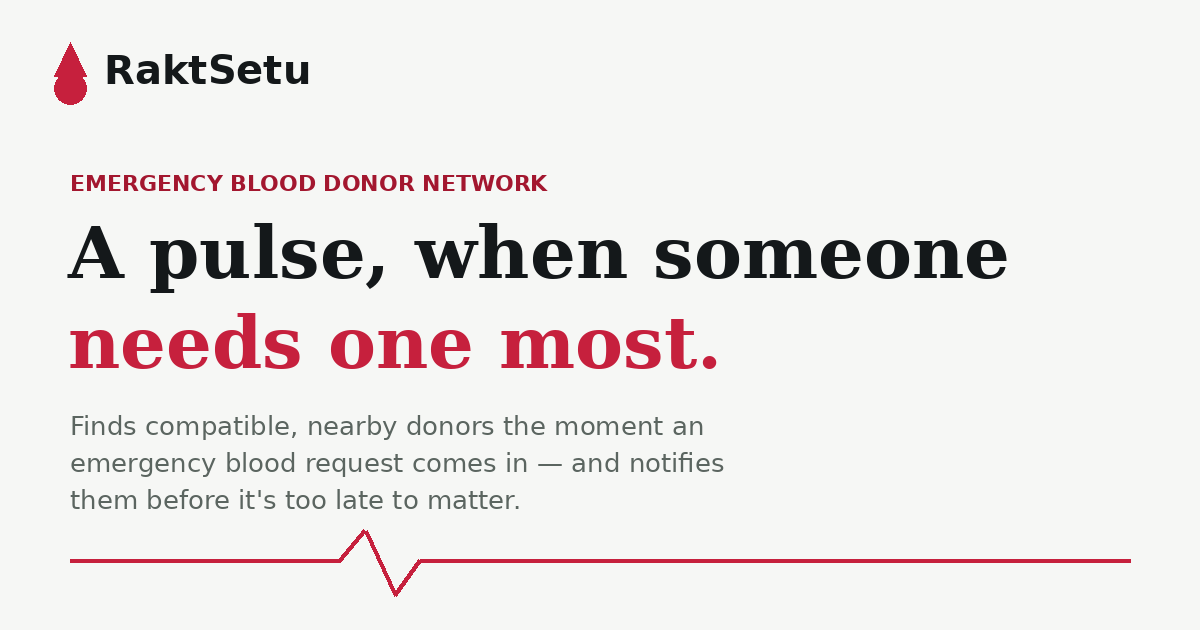
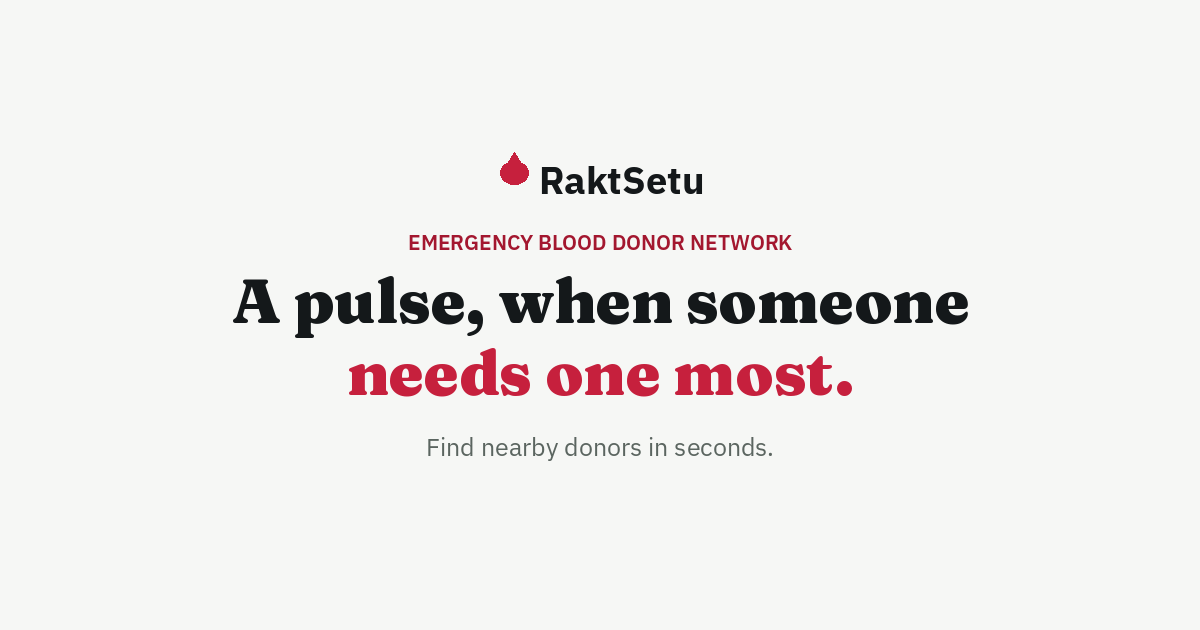
Add forgot/reset password flow and update OG image

diff --git a/raktsetu/backend/routes/auth.js b/raktsetu/backend/routes/auth.js
@@ -1,12 +1,15 @@
 import express from "express";
 import bcrypt from "bcryptjs";
 import jwt from "jsonwebtoken";
+import crypto from "crypto";
 import Donor from "../models/Donor.js";
 import { BLOOD_TYPES } from "../utils/compatibility.js";
+import { sendPasswordResetEmail } from "../utils/mailer.js";
 
 const router = express.Router();
 
 const DONATION_COOLDOWN_DAYS = 90;
+const RESET_TOKEN_TTL_MS = 60 * 60 * 1000; // 1 hour
 
 function signToken(donor) {
   return jwt.sign({ id: donor._id }, process.env.JWT_SECRET, { expiresIn: "30d" });
@@ -88,6 +91,81 @@ router.post("/login", async (req, res) => {
   } catch (err) {
     console.error(err);
     res.status(500).json({ message: "Login failed. Please try again." });
+  }
+});
+
+router.post("/forgot-password", async (req, res) => {
+  try {
+    const { email } = req.body;
+    if (!email) {
+      return res.status(400).json({ message: "Email is required." });
+    }
+
+    const donor = await Donor.findOne({ email: email.toLowerCase() });
+
+    // Always respond the same way whether or not the account exists —
+    // this stops the endpoint from being used to check which emails are
+    // registered donors.
+    const genericResponse = {
+      message: "If an account with that email exists, we've sent a password reset link.",
+    };
+
+    if (!donor) {
+      return res.json(genericResponse);
+    }
+
+    const rawToken = crypto.randomBytes(32).toString("hex");
+    const tokenHash = crypto.createHash("sha256").update(rawToken).digest("hex");
+
+    donor.resetPasswordTokenHash = tokenHash;
+    donor.resetPasswordExpires = new Date(Date.now() + RESET_TOKEN_TTL_MS);
+    await donor.save();
+
+    const clientUrl = process.env.CLIENT_URL || "http://localhost:5173";
+    const resetUrl = `${clientUrl}/reset-password?token=${rawToken}&email=${encodeURIComponent(donor.email)}`;
+
+    await sendPasswordResetEmail({ to: donor.email, donorName: donor.name, resetUrl });
+
+    res.json(genericResponse);
+  } catch (err) {
+    console.error(err);
+    res.status(500).json({ message: "Something went wrong. Please try again." });
+  }
+});
+
+router.post("/reset-password", async (req, res) => {
+  try {
+    const { email, token, password } = req.body;
+    if (!email || !token || !password) {
+      return res.status(400).json({ message: "Missing required fields." });
+    }
+    if (password.length < 6) {
+      return res.status(400).json({ message: "Password must be at least 6 characters." });
+    }
+
+    const donor = await Donor.findOne({ email: email.toLowerCase() });
+    if (!donor || !donor.resetPasswordTokenHash || !donor.resetPasswordExpires) {
+      return res.status(400).json({ message: "This reset link is invalid or has expired." });
+    }
+
+    if (donor.resetPasswordExpires < new Date()) {
+      return res.status(400).json({ message: "This reset link has expired. Please request a new one." });
+    }
+
+    const tokenHash = crypto.createHash("sha256").update(token).digest("hex");
+    if (tokenHash !== donor.resetPasswordTokenHash) {
+      return res.status(400).json({ message: "This reset link is invalid or has expired." });
+    }
+
+    donor.password = await bcrypt.hash(password, 10);
+    donor.resetPasswordTokenHash = null;
+    donor.resetPasswordExpires = null;
+    await donor.save();
+
+    res.json({ message: "Your password has been reset. You can now log in." });
+  } catch (err) {
+    console.error(err);
+    res.status(500).json({ message: "Something went wrong. Please try again." });
   }
 });
 

diff --git a/raktsetu/frontend/src/pages/ResetPassword.jsx b/raktsetu/frontend/src/pages/ResetPassword.jsx
@@ -1,0 +1,78 @@
+import { useState } from "react";
+import { Link, useNavigate, useSearchParams } from "react-router-dom";
+import client from "../api/client.js";
+
+export default function ResetPassword() {
+  const navigate = useNavigate();
+  const [searchParams] = useSearchParams();
+  const email = searchParams.get("email") || "";
+  const token = searchParams.get("token") || "";
+
+  const [password, setPassword] = useState("");
+  const [confirmPassword, setConfirmPassword] = useState("");
+  const [error, setError] = useState("");
+  const [submitting, setSubmitting] = useState(false);
+
+  async function handleSubmit(e) {
+    e.preventDefault();
+    setError("");
+
+    if (password !== confirmPassword) {
+      setError("Passwords don't match.");
+      return;
+    }
+
+    setSubmitting(true);
+    try {
+      await client.post("/auth/reset-password", { email, token, password });
+      navigate("/login");
+    } catch (err) {
+      setError(err.response?.data?.message || "Something went wrong. Please try again.");
+    } finally {
+      setSubmitting(false);
+    }
+  }
+
+  if (!email || !token) {
+    return (
+      <div className="max-w-md mx-auto px-5 py-20 text-center">
+        <p className="text-[var(--color-ink-muted)]">
+          This reset link looks incomplete. Please request a new one from the{" "}
+          <Link to="/forgot-password" className="text-[var(--color-crimson-600)] font-medium">
+            forgot password page
+          </Link>.
+        </p>
+      </div>
+    );
+  }
+
+  return (
+    <div className="max-w-md mx-auto px-5 py-20">
+      <span className="eyebrow">Almost there</span>
+      <h1 className="font-display text-3xl font-semibold mt-2 mb-8">Choose a new password</h1>
+
+      <form onSubmit={handleSubmit} className="card p-6 sm:p-8 space-y-5">
+        <div>
+          <label className="label" htmlFor="password">New password</label>
+          <input id="password" type="password" required minLength={6} className="input" value={password}
+            onChange={(e) => setPassword(e.target.value)} placeholder="At least 6 characters" />
+        </div>
+        <div>
+          <label className="label" htmlFor="confirmPassword">Confirm new password</label>
+          <input id="confirmPassword" type="password" required minLength={6} className="input" value={confirmPassword}
+            onChange={(e) => setConfirmPassword(e.target.value)} placeholder="Re-enter your new password" />
+        </div>
+
+        {error && (
+          <p className="text-sm text-[var(--color-crimson-600)] bg-[var(--color-crimson-50)] rounded-lg px-3 py-2">
+            {error}
+          </p>
+        )}
+
+        <button type="submit" disabled={submitting} className="btn btn-primary w-full disabled:opacity-60">
+          {submitting ? "Saving…" : "Save new password"}
+        </button>
+      </form>
+    </div>
+  );
+}

diff --git a/raktsetu/frontend/src/pages/ForgotPassword.jsx b/raktsetu/frontend/src/pages/ForgotPassword.jsx
@@ -1,0 +1,60 @@
+import { useState } from "react";
+import { Link } from "react-router-dom";
+import client from "../api/client.js";
+
+export default function ForgotPassword() {
+  const [email, setEmail] = useState("");
+  const [message, setMessage] = useState("");
+  const [error, setError] = useState("");
+  const [submitting, setSubmitting] = useState(false);
+
+  async function handleSubmit(e) {
+    e.preventDefault();
+    setError("");
+    setMessage("");
+    setSubmitting(true);
+    try {
+      const res = await client.post("/auth/forgot-password", { email });
+      setMessage(res.data.message);
+    } catch (err) {
+      setError(err.response?.data?.message || "Something went wrong. Please try again.");
+    } finally {
+      setSubmitting(false);
+    }
+  }
+
+  return (
+    <div className="max-w-md mx-auto px-5 py-20">
+      <span className="eyebrow">Locked out?</span>
+      <h1 className="font-display text-3xl font-semibold mt-2 mb-8">Reset your password</h1>
+
+      <form onSubmit={handleSubmit} className="card p-6 sm:p-8 space-y-5">
+        <div>
+          <label className="label" htmlFor="email">Email</label>
+          <input id="email" type="email" required className="input" value={email}
+            onChange={(e) => setEmail(e.target.value)} placeholder="you@example.com" />
+        </div>
+
+        {message && (
+          <p className="text-sm text-[var(--color-ink)] bg-[var(--color-crimson-50)] rounded-lg px-3 py-2">
+            {message}
+          </p>
+        )}
+        {error && (
+          <p className="text-sm text-[var(--color-crimson-600)] bg-[var(--color-crimson-50)] rounded-lg px-3 py-2">
+            {error}
+          </p>
+        )}
+
+        <button type="submit" disabled={submitting} className="btn btn-primary w-full disabled:opacity-60">
+          {submitting ? "Sending…" : "Send reset link"}
+        </button>
+
+        <p className="text-sm text-center text-[var(--color-ink-muted)]">
+          Remembered it?{" "}
+          <Link to="/login" className="text-[var(--color-crimson-600)] font-medium">Log in</Link>
+        </p>
+      </form>
+    </div>
+  );
+}

diff --git a/raktsetu/backend/utils/mailer.js b/raktsetu/backend/utils/mailer.js
@@ -65,4 +65,41 @@ Thank you for being a registered donor.
   }
 }
 
-export default { sendUrgentAlert };
+export async function sendPasswordResetEmail({ to, donorName, resetUrl }) {
+  const subject = "Reset your RaktSetu password";
+
+  const text = `Hi ${donorName},\n\nWe received a request to reset your RaktSetu password.\nThis link is valid for 1 hour:\n${resetUrl}\n\nIf you didn't request this, you can safely ignore this email — your password won't be changed.\n\n- RaktSetu`;
+
+  const html = `
+    <div style="font-family: sans-serif; max-width: 480px;">
+      <h2 style="color:#B3261E;">Reset your RaktSetu password</h2>
+      <p>Hi ${donorName},</p>
+      <p>We received a request to reset your password. This link is valid for <strong>1 hour</strong>.</p>
+      <p><a href="${resetUrl}" style="background:#B3261E;color:#fff;padding:10px 18px;
+      border-radius:6px;text-decoration:none;display:inline-block;">Reset password</a></p>
+      <p style="color:#666;font-size:13px;">If you didn't request this, you can safely ignore this email — your password won't be changed.</p>
+    </div>`;
+
+  try {
+    const { data, error } = await getClient().emails.send({
+      from: process.env.RESEND_FROM || "RaktSetu Alerts <onboarding@resend.dev>",
+      to,
+      subject,
+      text,
+      html,
+    });
+
+    if (error) {
+      console.error(`Failed to send password reset email to ${to}:`, error.message || error);
+      return false;
+    }
+
+    console.log(`Password reset email accepted by Resend for ${to} — id: ${data?.id}`);
+    return true;
+  } catch (err) {
+    console.error(`Failed to send password reset email to ${to}:`, err.message);
+    return false;
+  }
+}
+
+export default { sendUrgentAlert, sendPasswordResetEmail };

diff --git a/raktsetu/frontend/src/App.jsx b/raktsetu/frontend/src/App.jsx
@@ -6,6 +6,8 @@ import SlowServerBanner from "./components/SlowServerBanner.jsx";
 import Home from "./pages/Home.jsx";
 import Register from "./pages/Register.jsx";
 import Login from "./pages/Login.jsx";
+import ForgotPassword from "./pages/ForgotPassword.jsx";
+import ResetPassword from "./pages/ResetPassword.jsx";
 import Dashboard from "./pages/Dashboard.jsx";
 import CreateRequest from "./pages/CreateRequest.jsx";
 import RequestDetail from "./pages/RequestDetail.jsx";
@@ -19,8 +21,10 @@ export default function App() {
       <main className="flex-1">
         <Routes>
           <Route path="/" element={<Home />} />
-          <Route path="/register" element={<Register />} />
+                    <Route path="/register" element={<Register />} />
           <Route path="/login" element={<Login />} />
+          <Route path="/forgot-password" element={<ForgotPassword />} />
+          <Route path="/reset-password" element={<ResetPassword />} />
           <Route
             path="/dashboard"
             element={

diff --git a/raktsetu/frontend/src/pages/Login.jsx b/raktsetu/frontend/src/pages/Login.jsx
@@ -37,10 +37,15 @@ export default function Login() {
           <input id="email" type="email" required className="input" value={email}
             onChange={(e) => setEmail(e.target.value)} placeholder="you@example.com" />
         </div>
-        <div>
+                <div>
           <label className="label" htmlFor="password">Password</label>
           <input id="password" type="password" required className="input" value={password}
             onChange={(e) => setPassword(e.target.value)} placeholder="Your password" />
+          <div className="text-right mt-1">
+            <Link to="/forgot-password" className="text-xs text-[var(--color-crimson-600)]">
+              Forgot password?
+            </Link>
+          </div>
         </div>
 
         {error && (

diff --git a/raktsetu/backend/models/Donor.js b/raktsetu/backend/models/Donor.js
@@ -24,9 +24,12 @@ const donorSchema = new mongoose.Schema(
       },
     },
 
-    available: { type: Boolean, default: true },
+        available: { type: Boolean, default: true },
     lastDonationDate: { type: Date, default: null },
     totalDonations: { type: Number, default: 0 },
+
+    resetPasswordTokenHash: { type: String, default: null },
+    resetPasswordExpires: { type: Date, default: null },
   },
   { timestamps: true }
 );
